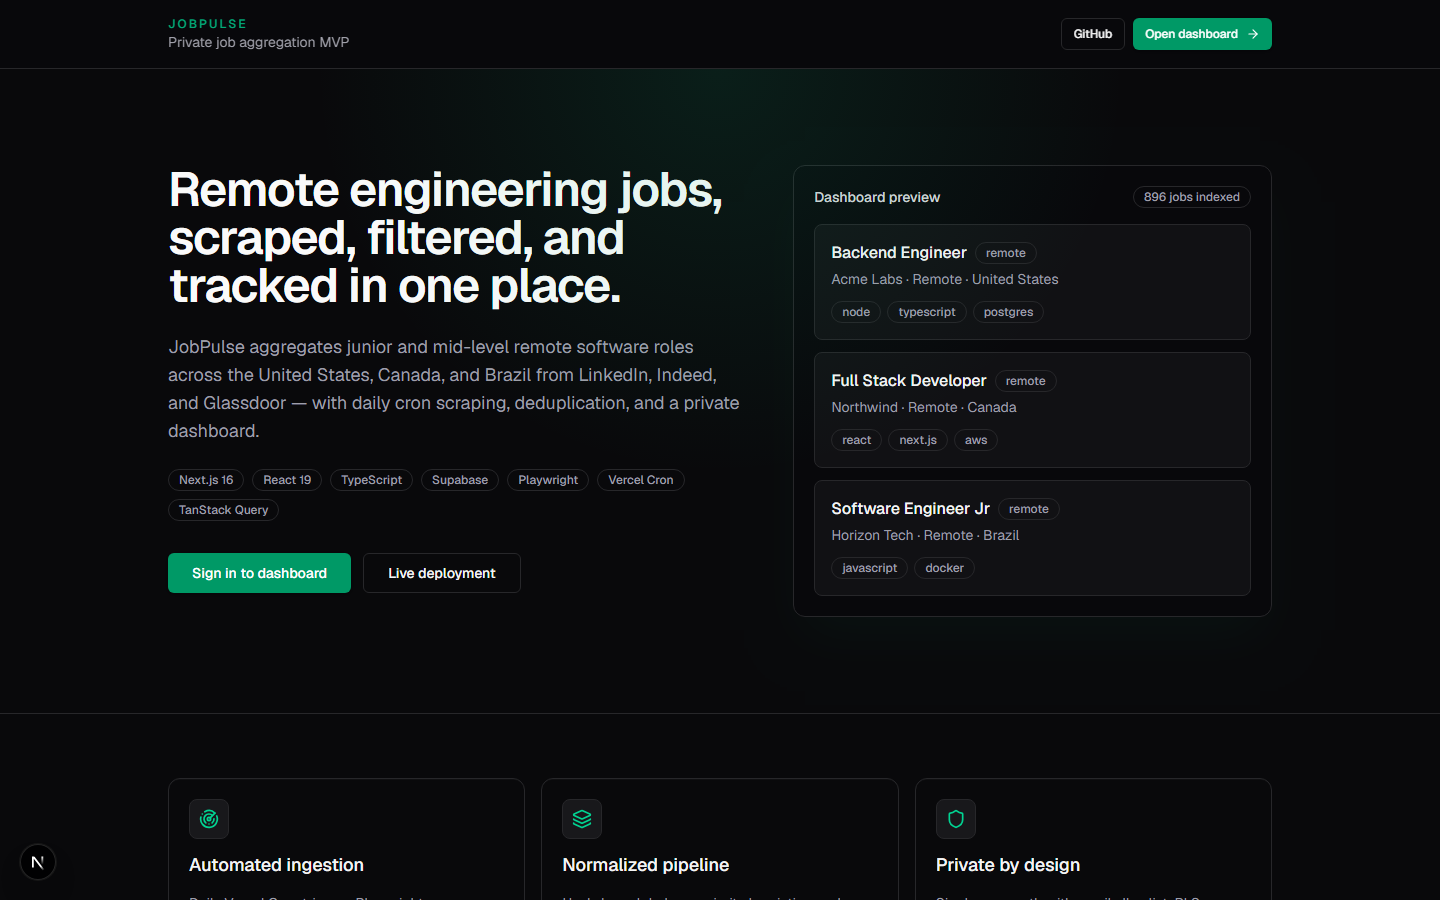
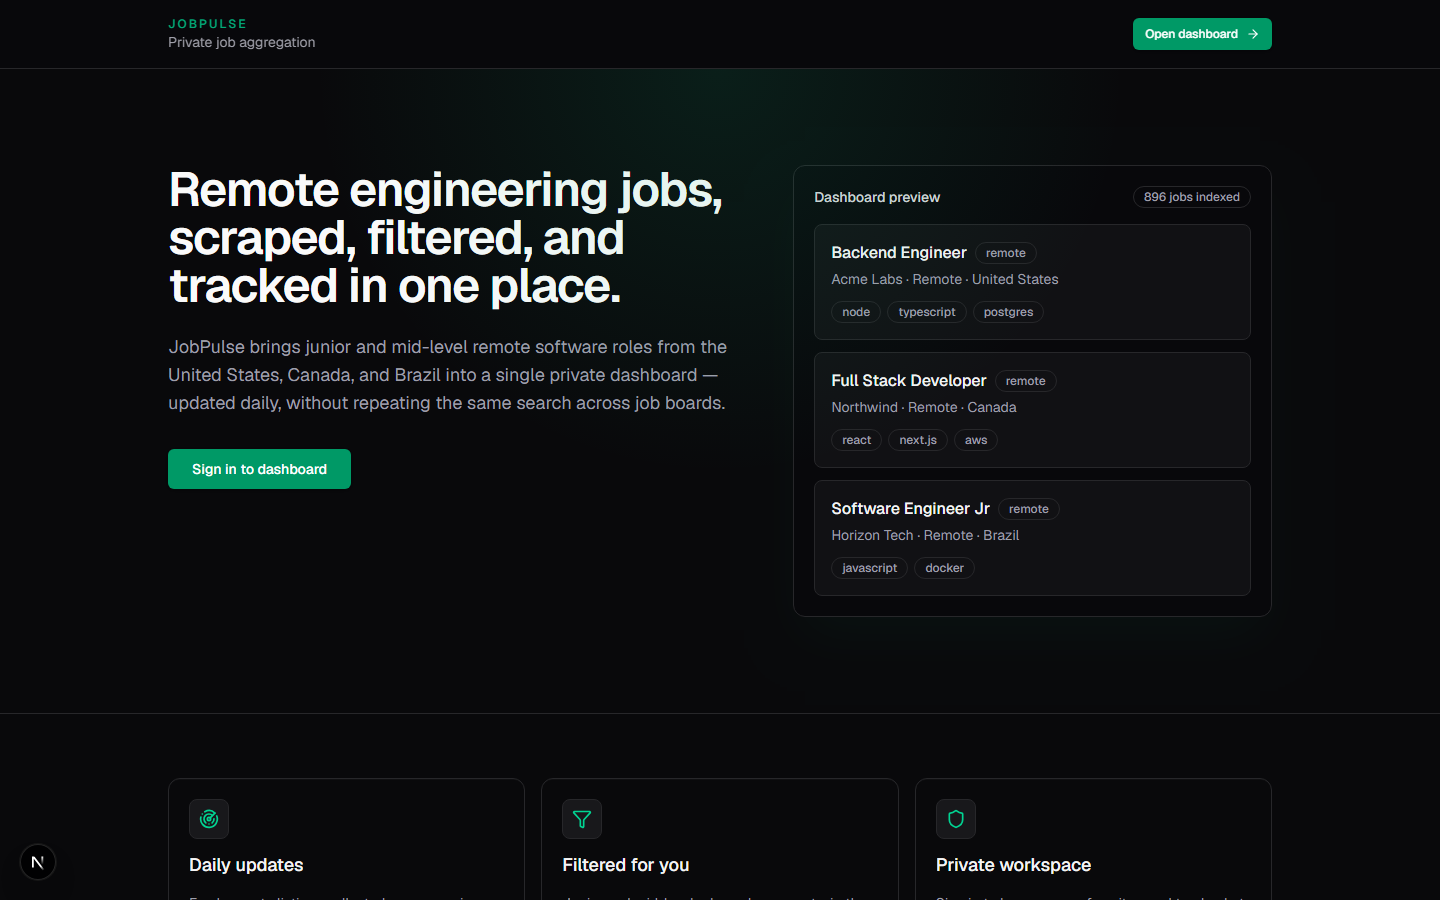
refactor: strip tech stack and architecture copy from landing page
Keep product-focused messaging on the site; stack and technical decisions remain in the GitHub README only.

diff --git a/src/components/landing/landing-page.tsx b/src/components/landing/landing-page.tsx
@@ -1,9 +1,9 @@
 import Link from "next/link";
 import {
   ArrowRight,
-  Database,
+  Bookmark,
+  Filter,
   Globe2,
-  Layers,
   Radar,
   Shield,
   Timer,
@@ -11,31 +11,6 @@ import {
 import { Button } from "@/components/ui/button";
 import { Badge } from "@/components/ui/badge";
 import { Card, CardContent } from "@/components/ui/card";
-
-const stack = [
-  "Next.js 16",
-  "React 19",
-  "TypeScript",
-  "Supabase",
-  "Playwright",
-  "Vercel Cron",
-  "TanStack Query",
-];
-
-const decisions = [
-  {
-    title: "RPC instead of service role on Vercel",
-    body: "Cron upserts run through Supabase RPC with a shared secret, avoiding a service role key in serverless env.",
-  },
-  {
-    title: "Serverless-safe Playwright",
-    body: "@sparticuz/chromium plus explicit file tracing bundles browsers.json so cron scrapers survive cold starts.",
-  },
-  {
-    title: "Pipeline filter before persistence",
-    body: "Only remote junior/mid roles in the US, Canada, and Brazil pass the scraper gate and dedup layer.",
-  },
-];
 
 const previewJobs = [
   {
@@ -67,25 +42,14 @@ export function LandingPage() {
             <p className="text-xs font-medium uppercase tracking-[0.18em] text-emerald-400/80">
               JobPulse
             </p>
-            <p className="text-sm text-zinc-400">Private job aggregation MVP</p>
+            <p className="text-sm text-zinc-400">Private job aggregation</p>
           </div>
-          <div className="flex items-center gap-2">
-            <Button asChild variant="outline" size="sm">
-              <a
-                href="https://github.com/giovaniohira/job-board-agreggator"
-                target="_blank"
-                rel="noopener noreferrer"
-              >
-                GitHub
-              </a>
-            </Button>
-            <Button asChild size="sm">
-              <Link href="/login">
-                Open dashboard
-                <ArrowRight className="h-3.5 w-3.5" />
-              </Link>
-            </Button>
-          </div>
+          <Button asChild size="sm">
+            <Link href="/login">
+              Open dashboard
+              <ArrowRight className="h-3.5 w-3.5" />
+            </Link>
+          </Button>
         </div>
       </header>
 
@@ -98,30 +62,13 @@ export function LandingPage() {
                 Remote engineering jobs, scraped, filtered, and tracked in one place.
               </h1>
               <p className="max-w-xl text-base leading-7 text-zinc-400 md:text-lg">
-                JobPulse aggregates junior and mid-level remote software roles across
-                the United States, Canada, and Brazil from LinkedIn, Indeed, and
-                Glassdoor — with daily cron scraping, deduplication, and a private
-                dashboard.
+                JobPulse brings junior and mid-level remote software roles from the
+                United States, Canada, and Brazil into a single private dashboard —
+                updated daily, without repeating the same search across job boards.
               </p>
-              <div className="flex flex-wrap gap-2">
-                {stack.map((item) => (
-                  <Badge key={item} variant="outline">
-                    {item}
-                  </Badge>
-                ))}
-              </div>
               <div className="flex flex-wrap gap-3 pt-2">
                 <Button asChild size="lg">
                   <Link href="/login">Sign in to dashboard</Link>
-                </Button>
-                <Button asChild variant="outline" size="lg">
-                  <a
-                    href="https://job-board-pulse.vercel.app/login"
-                    target="_blank"
-                    rel="noopener noreferrer"
-                  >
-                    Live deployment
-                  </a>
                 </Button>
               </div>
             </div>
@@ -165,18 +112,18 @@ export function LandingPage() {
             {[
               {
                 icon: Radar,
-                title: "Automated ingestion",
-                body: "Daily Vercel Cron triggers Playwright scrapers and logs every run in Supabase.",
+                title: "Daily updates",
+                body: "Fresh remote listings collected every morning from LinkedIn, Indeed, and Glassdoor.",
               },
               {
-                icon: Layers,
-                title: "Normalized pipeline",
-                body: "Hash-based dedup, seniority heuristics, and country filters before jobs hit the database.",
+                icon: Filter,
+                title: "Filtered for you",
+                body: "Junior and mid-level roles only — remote, in the US, Canada, or Brazil.",
               },
               {
                 icon: Shield,
-                title: "Private by design",
-                body: "Single-user auth with email allowlist, RLS policies, and no public sign-ups.",
+                title: "Private workspace",
+                body: "Sign in to browse, save favorites, and track what you have already applied to.",
               },
             ].map(({ icon: Icon, title, body }) => (
               <Card key={title} className="border-zinc-800/80 bg-zinc-950/50">
@@ -194,60 +141,42 @@ export function LandingPage() {
 
         <section className="border-y border-zinc-800/80 bg-zinc-950/40">
           <div className="mx-auto max-w-6xl px-4 py-16 md:px-6">
-            <div className="mb-8 flex items-center gap-3">
-              <Database className="h-5 w-5 text-emerald-400" />
-              <h2 className="text-2xl font-semibold tracking-tight text-zinc-50">
-                Technical decisions
-              </h2>
-            </div>
-            <div className="grid gap-4 md:grid-cols-3">
-              {decisions.map((item) => (
-                <Card key={item.title} className="border-zinc-800/80">
-                  <CardContent className="space-y-2 p-5">
-                    <h3 className="font-medium text-zinc-100">{item.title}</h3>
-                    <p className="text-sm leading-6 text-zinc-400">{item.body}</p>
-                  </CardContent>
-                </Card>
-              ))}
-            </div>
-          </div>
-        </section>
-
-        <section className="mx-auto max-w-6xl px-4 py-16 md:px-6">
-          <div className="grid gap-6 md:grid-cols-[1fr_auto] md:items-center">
-            <div className="space-y-3">
-              <div className="flex items-center gap-2 text-emerald-400">
-                <Globe2 className="h-4 w-4" />
-                <span className="text-sm font-medium">Markets covered</span>
+            <div className="grid gap-6 md:grid-cols-[1fr_auto] md:items-center">
+              <div className="space-y-3">
+                <div className="flex items-center gap-2 text-emerald-400">
+                  <Globe2 className="h-4 w-4" />
+                  <span className="text-sm font-medium">Markets covered</span>
+                </div>
+                <p className="max-w-2xl text-sm leading-6 text-zinc-400">
+                  Remote-only roles in the United States, Canada, and Brazil. Hybrid,
+                  on-site, and out-of-region listings never make it into your feed.
+                </p>
+                <div className="flex items-center gap-2 text-zinc-500">
+                  <Timer className="h-4 w-4" />
+                  <span className="text-sm">Updated daily at 9:00 AM Brazil time</span>
+                </div>
+                <div className="flex items-center gap-2 text-zinc-500">
+                  <Bookmark className="h-4 w-4" />
+                  <span className="text-sm">Save jobs and mark applications from the dashboard</span>
+                </div>
               </div>
-              <p className="max-w-2xl text-sm leading-6 text-zinc-400">
-                Remote-only roles in the United States, Canada, and Brazil. Hybrid,
-                on-site, and out-of-region listings are filtered out before persistence.
-              </p>
-              <div className="flex items-center gap-2 text-zinc-500">
-                <Timer className="h-4 w-4" />
-                <span className="text-sm">Daily scrape at 9:00 AM Brazil time</span>
-              </div>
+              <Button asChild size="lg">
+                <Link href="/login">
+                  Explore the dashboard
+                  <ArrowRight className="h-4 w-4" />
+                </Link>
+              </Button>
             </div>
-            <Button asChild size="lg">
-              <Link href="/login">
-                Explore the dashboard
-                <ArrowRight className="h-4 w-4" />
-              </Link>
-            </Button>
           </div>
         </section>
       </main>
 
       <footer className="border-t border-zinc-800/80">
         <div className="mx-auto flex max-w-6xl flex-col gap-2 px-4 py-8 text-sm text-zinc-500 md:flex-row md:items-center md:justify-between md:px-6">
-          <p>Built by Giovani O. Hira · Next.js + Supabase + Playwright on Vercel</p>
-          <a
-            href="https://github.com/giovaniohira/job-board-agreggator"
-            className="text-zinc-400 transition-colors hover:text-zinc-200"
-          >
-            View source on GitHub
-          </a>
+          <p>JobPulse · private job aggregator</p>
+          <Link href="/login" className="text-zinc-400 transition-colors hover:text-zinc-200">
+            Sign in
+          </Link>
         </div>
       </footer>
     </div>

diff --git a/src/app/layout.tsx b/src/app/layout.tsx
@@ -16,11 +16,11 @@ const geistMono = Geist_Mono({
 export const metadata: Metadata = {
   title: "JobPulse — Remote Job Aggregator",
   description:
-    "Private job aggregator with daily Playwright scraping, Supabase pipeline, and a Next.js dashboard for remote junior/mid software roles in the US, Canada, and Brazil.",
+    "Private dashboard for remote junior and mid-level software roles in the United States, Canada, and Brazil.",
   openGraph: {
     title: "JobPulse — Remote Job Aggregator",
     description:
-      "Automated remote job aggregation for junior and mid-level software engineering roles.",
+      "Remote engineering jobs, filtered and tracked in one private dashboard.",
     url: "https://job-board-pulse.vercel.app",
     siteName: "JobPulse",
     type: "website",
